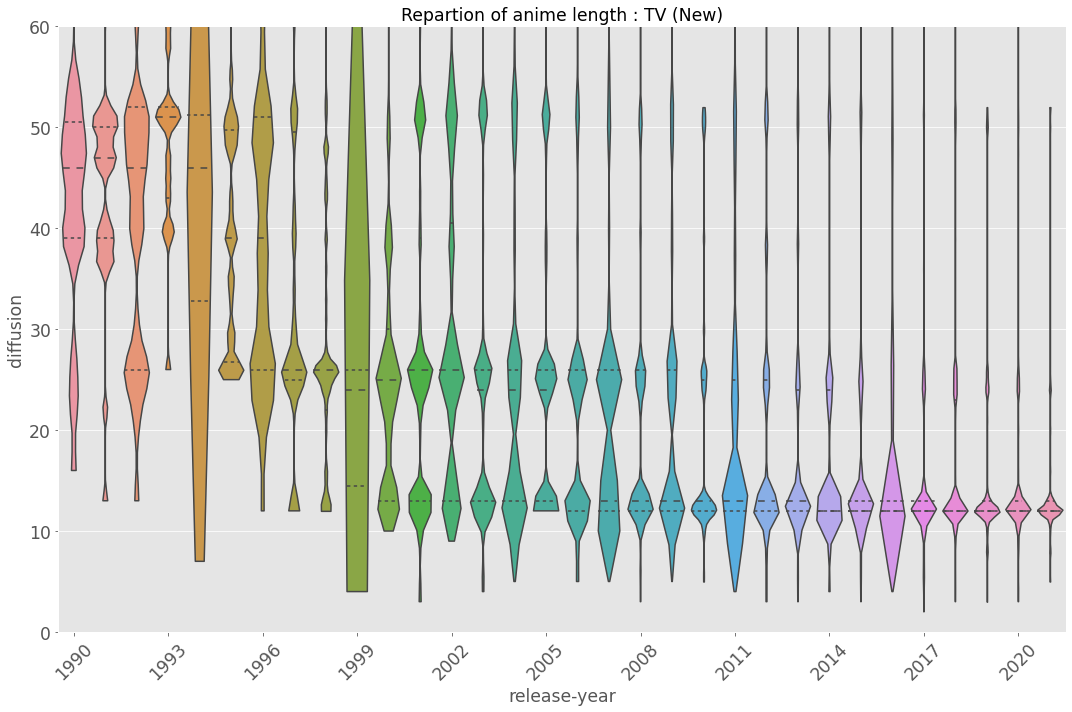
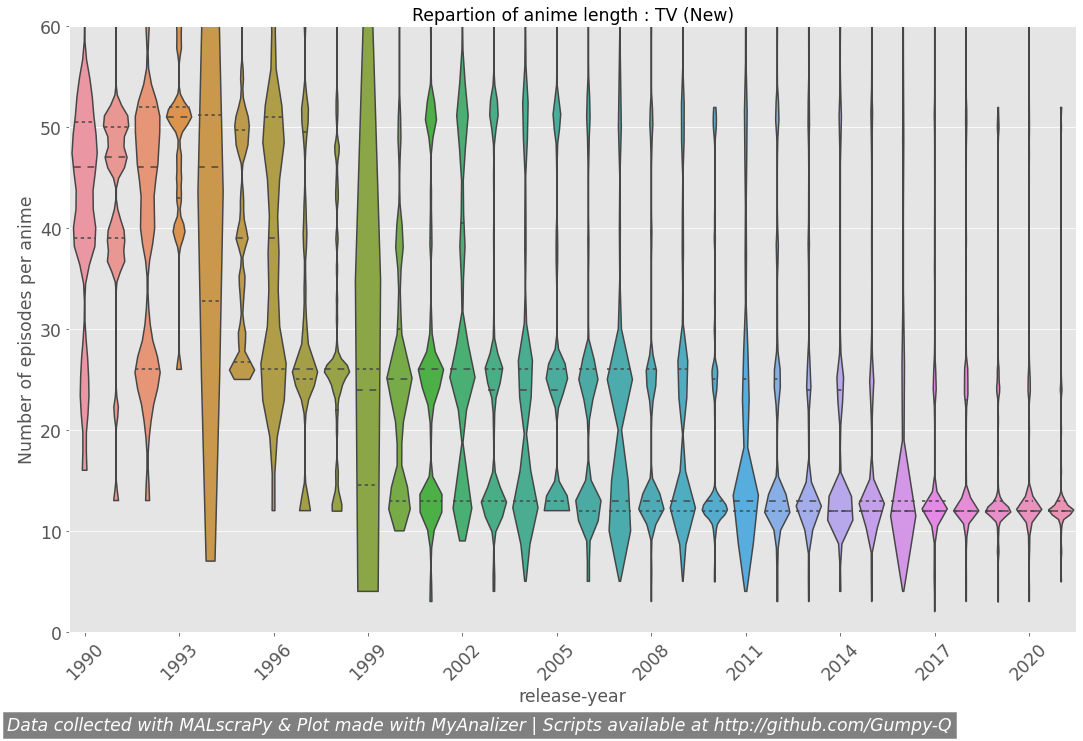
Now with signature

Changed region(s): [[0.0, 0.0, 1.0, 1.0]]

diff --git a/MyAnalizer.py b/MyAnalizer.py
@@ -55,7 +55,7 @@ def stackbarcolor(df_plot,cat_list,ax,plot_name,colors_list,cat_key,tosum_key,yl
             ax.tick_params('y', labelsize=font)
             ax.set(xlim=(min_year-1,max_year+1))
             ax.ticklabel_format(axis='x', style='plain', useOffset=False) #If I don't do this plt want to put the label to engineering notation
-            ax.xaxis.set_major_locator(MaxNLocator(integer=True,nbins=7,min_n_ticks=5,prune='both')) #give instruction how to handle the tick label: integer, nb of label, remove egde label
+            ax.xaxis.set_major_locator(MaxNLocator(integer=True,nbins=7,prune='both')) #give instruction how to handle the tick label: integer, nb of label, remove egde label
             
     ymax=max(df_plot['bottom'].max(),ymax) #after each season I retrieve the maximum value to limit plot axis
     
@@ -81,7 +81,7 @@ def production_season(df,min_year,max_year,anitypes,color_list): #To vizualize t
     for color in picked_colors:
         custom_patches.append(Patch(facecolor=color, edgecolor='b')) 
     
-    print('plotting evolution of production by season')
+    print('------------ plotting evolution of production by season ------------')
     
     for season,ax in zip(seasons,axes): #Season and plot goes together so I zip them
         df_season=select_years[select_years['release-season']==season].sort_values('release-year') #reducing the DataFrame to the season studied
@@ -93,7 +93,8 @@ def production_season(df,min_year,max_year,anitypes,color_list): #To vizualize t
     for ax in axes:
         ax.axis(ymax=ymax+5) #And then I set the limit
         ax.ticklabel_format(axis='x', style='plain', useOffset=False)
-        
+    
+    fig.text(0,-0.02,'Data collected with MALscraPy & Plot made with MyAnalizer | Scripts available at http://github.com/Gumpy-Q',fontsize=font, backgroundcolor='grey',style='italic',color='white')
     fig.suptitle('Evolution of the production',fontsize=font)
     fig.tight_layout()
     fig.legend(custom_patches, anitypes, bbox_to_anchor=(1,0.6), loc="upper left",fontsize=font)
@@ -112,7 +113,7 @@ def production_year(df,min_year,max_year,anitypes,color_list): #To vizualize the
     for color in picked_colors:
         custom_patches.append(Patch(facecolor=color, edgecolor='b'))
     
-    print('plotting evolution of production by year')    
+    print('------------ plotting evolution of production by year ------------')    
     
     fig, ax = plt.subplots(1,figsize=enlarge_fig) #building a subplot for the 4 seasons
     
@@ -124,6 +125,7 @@ def production_year(df,min_year,max_year,anitypes,color_list): #To vizualize the
         
     ax.axis(ymax=ymax+5) #And then I set the limit
     
+    fig.text(0,-0.02,'Data collected with MALscraPy & Plot made with MyAnalizer | Scripts available at http://github.com/Gumpy-Q',fontsize=font, backgroundcolor='grey',style='italic',color='white')
     fig.suptitle('Evolution of the production',fontsize=font)
     fig.tight_layout()
     fig.legend(custom_patches, anitypes, bbox_to_anchor=(1,0.6), loc="upper left",fontsize=font)
@@ -132,7 +134,7 @@ def production_year(df,min_year,max_year,anitypes,color_list): #To vizualize the
 def episode(df,min_year,max_year,anitype,max_shown): #This function is showing the repartition of anime'lenght in the year
     select_year=df[(df['type']==anitype) & (df['episodes']>0) & (df['release-year']>=min_year) & (df['release-year']<=max_year)] #Limit my dataframe
     
-    print('plotting evolution of anime length')
+    print('------------ plotting evolution of anime length ------------')
     
     fig, ax =plt.subplots(figsize=enlarge_fig)
     ax=sb.violinplot(x='release-year',y='episodes',data=select_year,bw=.05,cut=0, scale='width',inner='quartile',orientation='h') 
@@ -142,8 +144,9 @@ def episode(df,min_year,max_year,anitype,max_shown): #This function is showing t
     ax.xaxis.label.set_size(font)
     ax.set(ylim=(0,max_shown))
     ax.set_title('Repartion of anime length : '+ anitype,fontsize=font)
-    ax.xaxis.set_major_locator(MaxNLocator(integer=True,nbins=12,min_n_ticks=10,prune='both')) #
-        
+    ax.xaxis.set_major_locator(MaxNLocator(integer=True,nbins=12,prune='both')) #
+    
+    fig.text(0,-0.02,'Data collected with MALscraPy & Plot made with MyAnalizer | Scripts available at http://github.com/Gumpy-Q',fontsize=font, backgroundcolor='grey',style='italic',color='white') 
     fig.tight_layout()
     return fig    
 
@@ -201,7 +204,9 @@ def source(df,min_year,max_year,anitypes,color_list,thresold):
         stackbarcolor(df_type,sources,ax,anime_type,picked_colors,'source-material','percent','Part of the diffusion',max_year,min_year)
         ax.set(ylim=(0,1))
         ax.yaxis.set_major_formatter(PercentFormatter(xmax=1, decimals=0, symbol='%', is_latex=False))
+
     
+    fig.text(0,-0.02,'Data collected with MALscraPy & Plot made with MyAnalizer | Scripts available at http://github.com/Gumpy-Q',fontsize=font, backgroundcolor='grey',style='italic',color='white')
     fig.suptitle('Source of the adaptation (if less than '+str(thresold)+'% -> Other)',fontsize=font)          
     fig.tight_layout()
     fig.legend(custom_patches, sources, bbox_to_anchor=(1,0.6), loc="upper left",fontsize=font)
